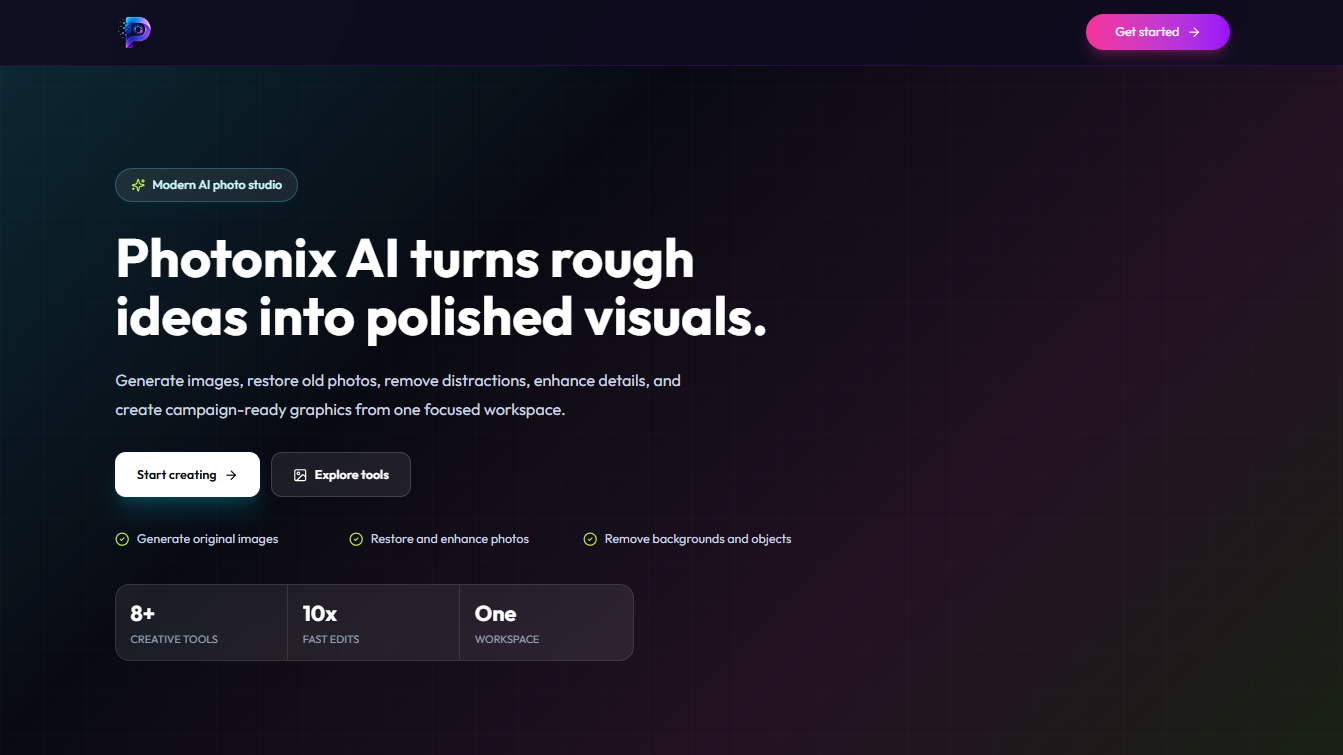
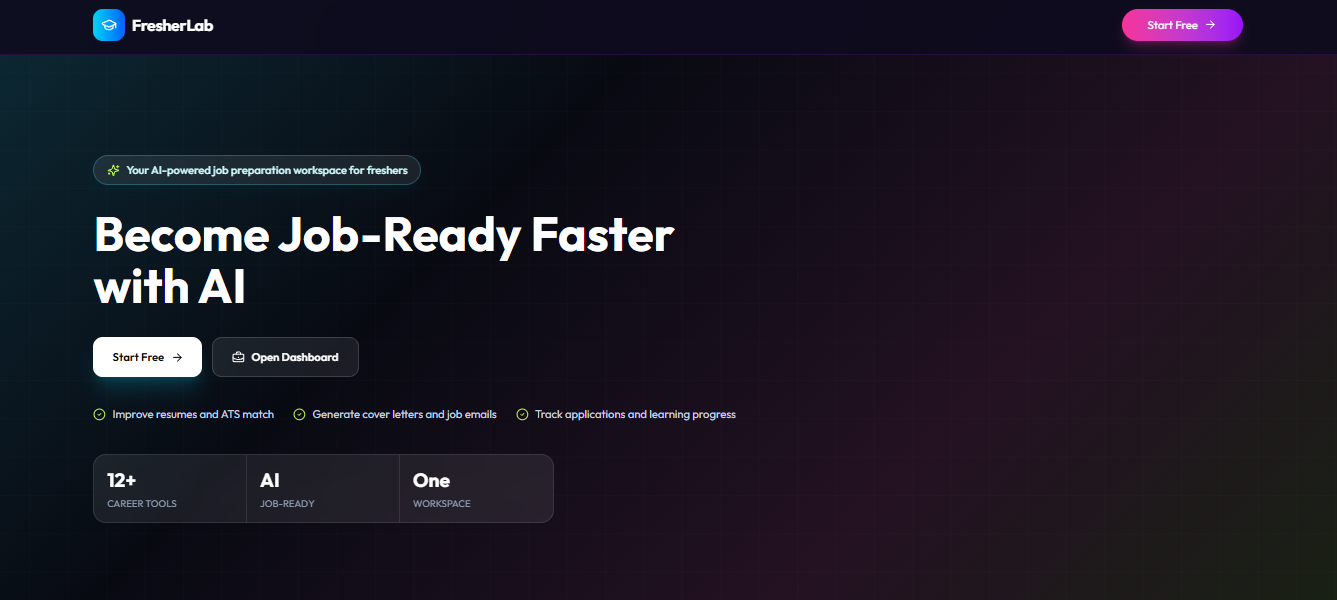
update README.md

diff --git a/README.md b/README.md
@@ -38,27 +38,35 @@ to land your first tech job into one focused workspace.
   <img src="./public/preview2.png" alt="FresherLab career workspace" width="1000" />
 </p>
 
+<p align="center">
+  <img src="./public/preview3.png" alt="FresherLab Resume Builder" width="1000" />
+</p>
+
+<p align="center">
+  <img src="./public/preview4.png" alt="FresherLab Resume ATS Score checker" width="1000" />
+</p>
+
 > **Live site:** [https://fresherlab.vercel.app](https://fresherlab.vercel.app)
 
 ---
 
 ## Features
 
-| Feature                             | Description                                                                                          |
-| :---------------------------------- | :--------------------------------------------------------------------------------------------------- |
-| **Clerk Authentication**            | Secure sign-up, sign-in, session handling, user profiles, and protected `/ai` workspace routes       |
-| **AI Resume Review**                | Upload PDF resumes (up to 5MB) to extract text and receive deep AI critique on strengths and gaps    |
-| **ATS Score & Keyword Matcher**     | Evaluates resumes against target job descriptions with keyword match scoring and section checks      |
-| **Step-by-Step Resume Builder**     | Guided form generating ATS-formatted resumes with LaTeX and structured markdown export options       |
-| **Tailored Cover Letter Generator** | Context-driven cover letters customized by role, company name, tone, and candidate achievements      |
-| **Job Email & Cold Outreach**       | Generates recruiter outreach, referral requests, application follow-ups, and interview replies       |
-| **Job Description Analyzer**        | Extracts core competencies, required tech stacks, red flags, and interview questions from raw JDs    |
-| **GitHub README Generator**         | Creates portfolio-ready repository READMEs with badges, architecture overviews, and setup steps      |
-| **Grammar & Bullet Enhancer**       | Polishes resume bullet points and professional correspondence into high-impact action statements     |
+| Feature                             | Description                                                                                             |
+| :---------------------------------- | :------------------------------------------------------------------------------------------------------ |
+| **Clerk Authentication**            | Secure sign-up, sign-in, session handling, user profiles, and protected `/ai` workspace routes          |
+| **AI Resume Review**                | Upload PDF resumes (up to 5MB) to extract text and receive deep AI critique on strengths and gaps       |
+| **ATS Score & Keyword Matcher**     | Evaluates resumes against target job descriptions with keyword match scoring and section checks         |
+| **Step-by-Step Resume Builder**     | Guided form generating ATS-formatted resumes with LaTeX and structured markdown export options          |
+| **Tailored Cover Letter Generator** | Context-driven cover letters customized by role, company name, tone, and candidate achievements         |
+| **Job Email & Cold Outreach**       | Generates recruiter outreach, referral requests, application follow-ups, and interview replies          |
+| **Job Description Analyzer**        | Extracts core competencies, required tech stacks, red flags, and interview questions from raw JDs       |
+| **GitHub README Generator**         | Creates portfolio-ready repository READMEs with badges, architecture overviews, and setup steps         |
+| **Grammar & Bullet Enhancer**       | Polishes resume bullet points and professional correspondence into high-impact action statements        |
 | **Job Application Tracker**         | Full CRUD pipeline to track applications by status, company, role, follow-up dates, and interview notes |
-| **Workspace Creation History**      | Stores AI outputs in Neon PostgreSQL with one-click copy, markdown download, and print capabilities  |
-| **Tiered Usage & Subscriptions**    | Free tier with 10 free generations tracked in PostgreSQL and unlimited usage for Stripe Premium      |
-| **Stripe Checkout & Webhooks**      | Automated checkout sessions, webhook lifecycle processing, customer portal, and plan synchronization |
+| **Workspace Creation History**      | Stores AI outputs in Neon PostgreSQL with one-click copy, markdown download, and print capabilities     |
+| **Tiered Usage & Subscriptions**    | Free tier with 10 free generations tracked in PostgreSQL and unlimited usage for Stripe Premium         |
+| **Stripe Checkout & Webhooks**      | Automated checkout sessions, webhook lifecycle processing, customer portal, and plan synchronization    |
 
 ---
 
@@ -78,24 +86,24 @@ to land your first tech job into one focused workspace.
 
 <div align="center">
 
-|       Technology       | Purpose                                                                             |
-| :--------------------: | :---------------------------------------------------------------------------------- |
-|      **React 19**      | Interactive component-based landing page, career tools, and workspace UI            |
-|       **Vite 7**       | Modern build tooling, fast hot module replacement, and client bundling              |
-|     **Express 5**      | Modular REST API server, authentication middleware, and route handlers              |
-|   **Tailwind CSS 4**   | Utility-first responsive design, modern dark/light mode palette, and typography     |
-|   **React Router 7**   | Declarative client-side routing and protected workspace subroutes                   |
-|       **Clerk**        | Hosted authentication, JWT verification, session tokens, and user profile management |
-|  **Neon PostgreSQL**   | Serverless PostgreSQL database for creations, job applications, and subscriptions   |
-|   **Google Gemini**    | High-speed `gemini-2.0-flash` LLM for career document generation and ATS analysis   |
-|       **Stripe**       | Subscription billing, checkout sessions, and automated webhook lifecycle management  |
-|        **Zod**         | Runtime schema validation, input sanitization, and error handling                   |
-|     **pdf-parse**      | Server-side text extraction from candidate resume PDF uploads                       |
-|   **React Markdown**   | GitHub-flavored markdown rendering for generated career materials                   |
-|   **React Hot Toast**  | Accessible, lightweight toast feedback for asynchronous user actions                |
-|    **Lucide React**    | Clean, consistent icon set across the workspace and navigation                      |
-|     **Cloudinary**     | Cloud-based file handling and media asset management                                |
-|       **Vercel**       | Production hosting for client Single Page Application and serverless API functions  |
+|     Technology      | Purpose                                                                              |
+| :-----------------: | :----------------------------------------------------------------------------------- |
+|    **React 19**     | Interactive component-based landing page, career tools, and workspace UI             |
+|     **Vite 7**      | Modern build tooling, fast hot module replacement, and client bundling               |
+|    **Express 5**    | Modular REST API server, authentication middleware, and route handlers               |
+| **Tailwind CSS 4**  | Utility-first responsive design, modern dark/light mode palette, and typography      |
+| **React Router 7**  | Declarative client-side routing and protected workspace subroutes                    |
+|      **Clerk**      | Hosted authentication, JWT verification, session tokens, and user profile management |
+| **Neon PostgreSQL** | Serverless PostgreSQL database for creations, job applications, and subscriptions    |
+|  **Google Gemini**  | High-speed `gemini-2.0-flash` LLM for career document generation and ATS analysis    |
+|     **Stripe**      | Subscription billing, checkout sessions, and automated webhook lifecycle management  |
+|       **Zod**       | Runtime schema validation, input sanitization, and error handling                    |
+|    **pdf-parse**    | Server-side text extraction from candidate resume PDF uploads                        |
+| **React Markdown**  | GitHub-flavored markdown rendering for generated career materials                    |
+| **React Hot Toast** | Accessible, lightweight toast feedback for asynchronous user actions                 |
+|  **Lucide React**   | Clean, consistent icon set across the workspace and navigation                       |
+|   **Cloudinary**    | Cloud-based file handling and media asset management                                 |
+|     **Vercel**      | Production hosting for client Single Page Application and serverless API functions   |
 
 </div>
 
@@ -194,38 +202,38 @@ FresherLab/
 
 All AI career endpoints require an authenticated Clerk Bearer token.
 
-| Endpoint                            |  Method  | Access              | Purpose                                                                |
-| :---------------------------------- | :------: | :------------------ | :--------------------------------------------------------------------- |
-| `/api/ai/resume-review`             |  `POST`  | Free (10) / Premium | Upload PDF resume to receive comprehensive AI feedback and critique    |
-| `/api/ai/ats-score`                 |  `POST`  | Free (10) / Premium | Score resume PDF against target JD with matched and missing keywords   |
-| `/api/ai/resume-builder`            |  `POST`  | Free (10) / Premium | Generate structured resume content with LaTeX export support           |
-| `/api/ai/generate-cover-letter`     |  `POST`  | Free (10) / Premium | Create targeted cover letters customized for specific job roles        |
-| `/api/ai/generate-email`            |  `POST`  | Free (10) / Premium | Draft professional cold outreach, referral requests, and follow-ups    |
-| `/api/ai/job-description-analysis`  |  `POST`  | Free (10) / Premium | Analyze job postings for required skills, gaps, and interview questions|
-| `/api/ai/generate-readme`           |  `POST`  | Free (10) / Premium | Build portfolio-ready GitHub README files with setup and tech stack    |
-| `/api/ai/enhance-grammar`           |  `POST`  | Free (10) / Premium | Polish resume bullet points and professional statements                |
-| `/api/ai/learning-plan`             |  `POST`  | Free (10) / Premium | Generate customized learning roadmaps for target tech roles            |
-| `/api/ai/code-snippet`              |  `POST`  | Free (10) / Premium | Generate educational, interview-focused code examples                  |
+| Endpoint                           | Method | Access              | Purpose                                                                 |
+| :--------------------------------- | :----: | :------------------ | :---------------------------------------------------------------------- |
+| `/api/ai/resume-review`            | `POST` | Free (10) / Premium | Upload PDF resume to receive comprehensive AI feedback and critique     |
+| `/api/ai/ats-score`                | `POST` | Free (10) / Premium | Score resume PDF against target JD with matched and missing keywords    |
+| `/api/ai/resume-builder`           | `POST` | Free (10) / Premium | Generate structured resume content with LaTeX export support            |
+| `/api/ai/generate-cover-letter`    | `POST` | Free (10) / Premium | Create targeted cover letters customized for specific job roles         |
+| `/api/ai/generate-email`           | `POST` | Free (10) / Premium | Draft professional cold outreach, referral requests, and follow-ups     |
+| `/api/ai/job-description-analysis` | `POST` | Free (10) / Premium | Analyze job postings for required skills, gaps, and interview questions |
+| `/api/ai/generate-readme`          | `POST` | Free (10) / Premium | Build portfolio-ready GitHub README files with setup and tech stack     |
+| `/api/ai/enhance-grammar`          | `POST` | Free (10) / Premium | Polish resume bullet points and professional statements                 |
+| `/api/ai/learning-plan`            | `POST` | Free (10) / Premium | Generate customized learning roadmaps for target tech roles             |
+| `/api/ai/code-snippet`             | `POST` | Free (10) / Premium | Generate educational, interview-focused code examples                   |
 
 ### User & Job Tracker (`/api/user`)
 
-| Endpoint                       |   Method   | Purpose                                                                |
-| :----------------------------- | :--------: | :--------------------------------------------------------------------- |
-| `/api/user/get-user-creations` |   `GET`    | Retrieve all saved AI creations for the authenticated user             |
-| `/api/user/get-published-creations` | `GET` | Retrieve community-shared creations                                    |
-| `/api/user/toggle-like-creation`| `POST`    | Like or unlike a shared creation                                       |
-| `/api/user/job-applications`   |   `GET`    | Fetch all tracked job applications for the candidate                   |
-| `/api/user/job-applications`   |   `POST`   | Add a new job application (company, role, status, contact, notes)      |
-| `/api/user/job-applications/:id` | `PUT`    | Update application status, salary range, follow-up dates, or notes     |
-| `/api/user/job-applications/:id` | `DELETE` | Delete a job application from the tracker                              |
+| Endpoint                            |  Method  | Purpose                                                            |
+| :---------------------------------- | :------: | :----------------------------------------------------------------- |
+| `/api/user/get-user-creations`      |  `GET`   | Retrieve all saved AI creations for the authenticated user         |
+| `/api/user/get-published-creations` |  `GET`   | Retrieve community-shared creations                                |
+| `/api/user/toggle-like-creation`    |  `POST`  | Like or unlike a shared creation                                   |
+| `/api/user/job-applications`        |  `GET`   | Fetch all tracked job applications for the candidate               |
+| `/api/user/job-applications`        |  `POST`  | Add a new job application (company, role, status, contact, notes)  |
+| `/api/user/job-applications/:id`    |  `PUT`   | Update application status, salary range, follow-up dates, or notes |
+| `/api/user/job-applications/:id`    | `DELETE` | Delete a job application from the tracker                          |
 
 ### Stripe Subscriptions (`/api/stripe`)
 
-| Endpoint                                | Method | Purpose                                                                |
-| :-------------------------------------- | :----: | :--------------------------------------------------------------------- |
-| `/api/stripe/create-checkout-session`   | `POST` | Initialize a Stripe Checkout session for the Premium subscription      |
-| `/api/stripe/subscription-status`       | `GET`  | Return user's active plan (`free` or `premium`), status, and usage     |
-| `/api/stripe/webhook`                   | `POST` | Raw body webhook handler verifying events and updating subscriptions   |
+| Endpoint                              | Method | Purpose                                                              |
+| :------------------------------------ | :----: | :------------------------------------------------------------------- |
+| `/api/stripe/create-checkout-session` | `POST` | Initialize a Stripe Checkout session for the Premium subscription    |
+| `/api/stripe/subscription-status`     | `GET`  | Return user's active plan (`free` or `premium`), status, and usage   |
+| `/api/stripe/webhook`                 | `POST` | Raw body webhook handler verifying events and updating subscriptions |
 
 ---
 
@@ -372,10 +380,10 @@ Open [http://localhost:5173](http://localhost:5173) in your browser.
 
 ### Backend (`server/`)
 
-| Command           | Description                                        |
-| :---------------- | :------------------------------------------------- |
-| `npm run dev`     | Start the API server with `nodemon` hot reloading  |
-| `npm start`       | Start the production Node.js Express server        |
+| Command       | Description                                       |
+| :------------ | :------------------------------------------------ |
+| `npm run dev` | Start the API server with `nodemon` hot reloading |
+| `npm start`   | Start the production Node.js Express server       |
 
 ---
 
